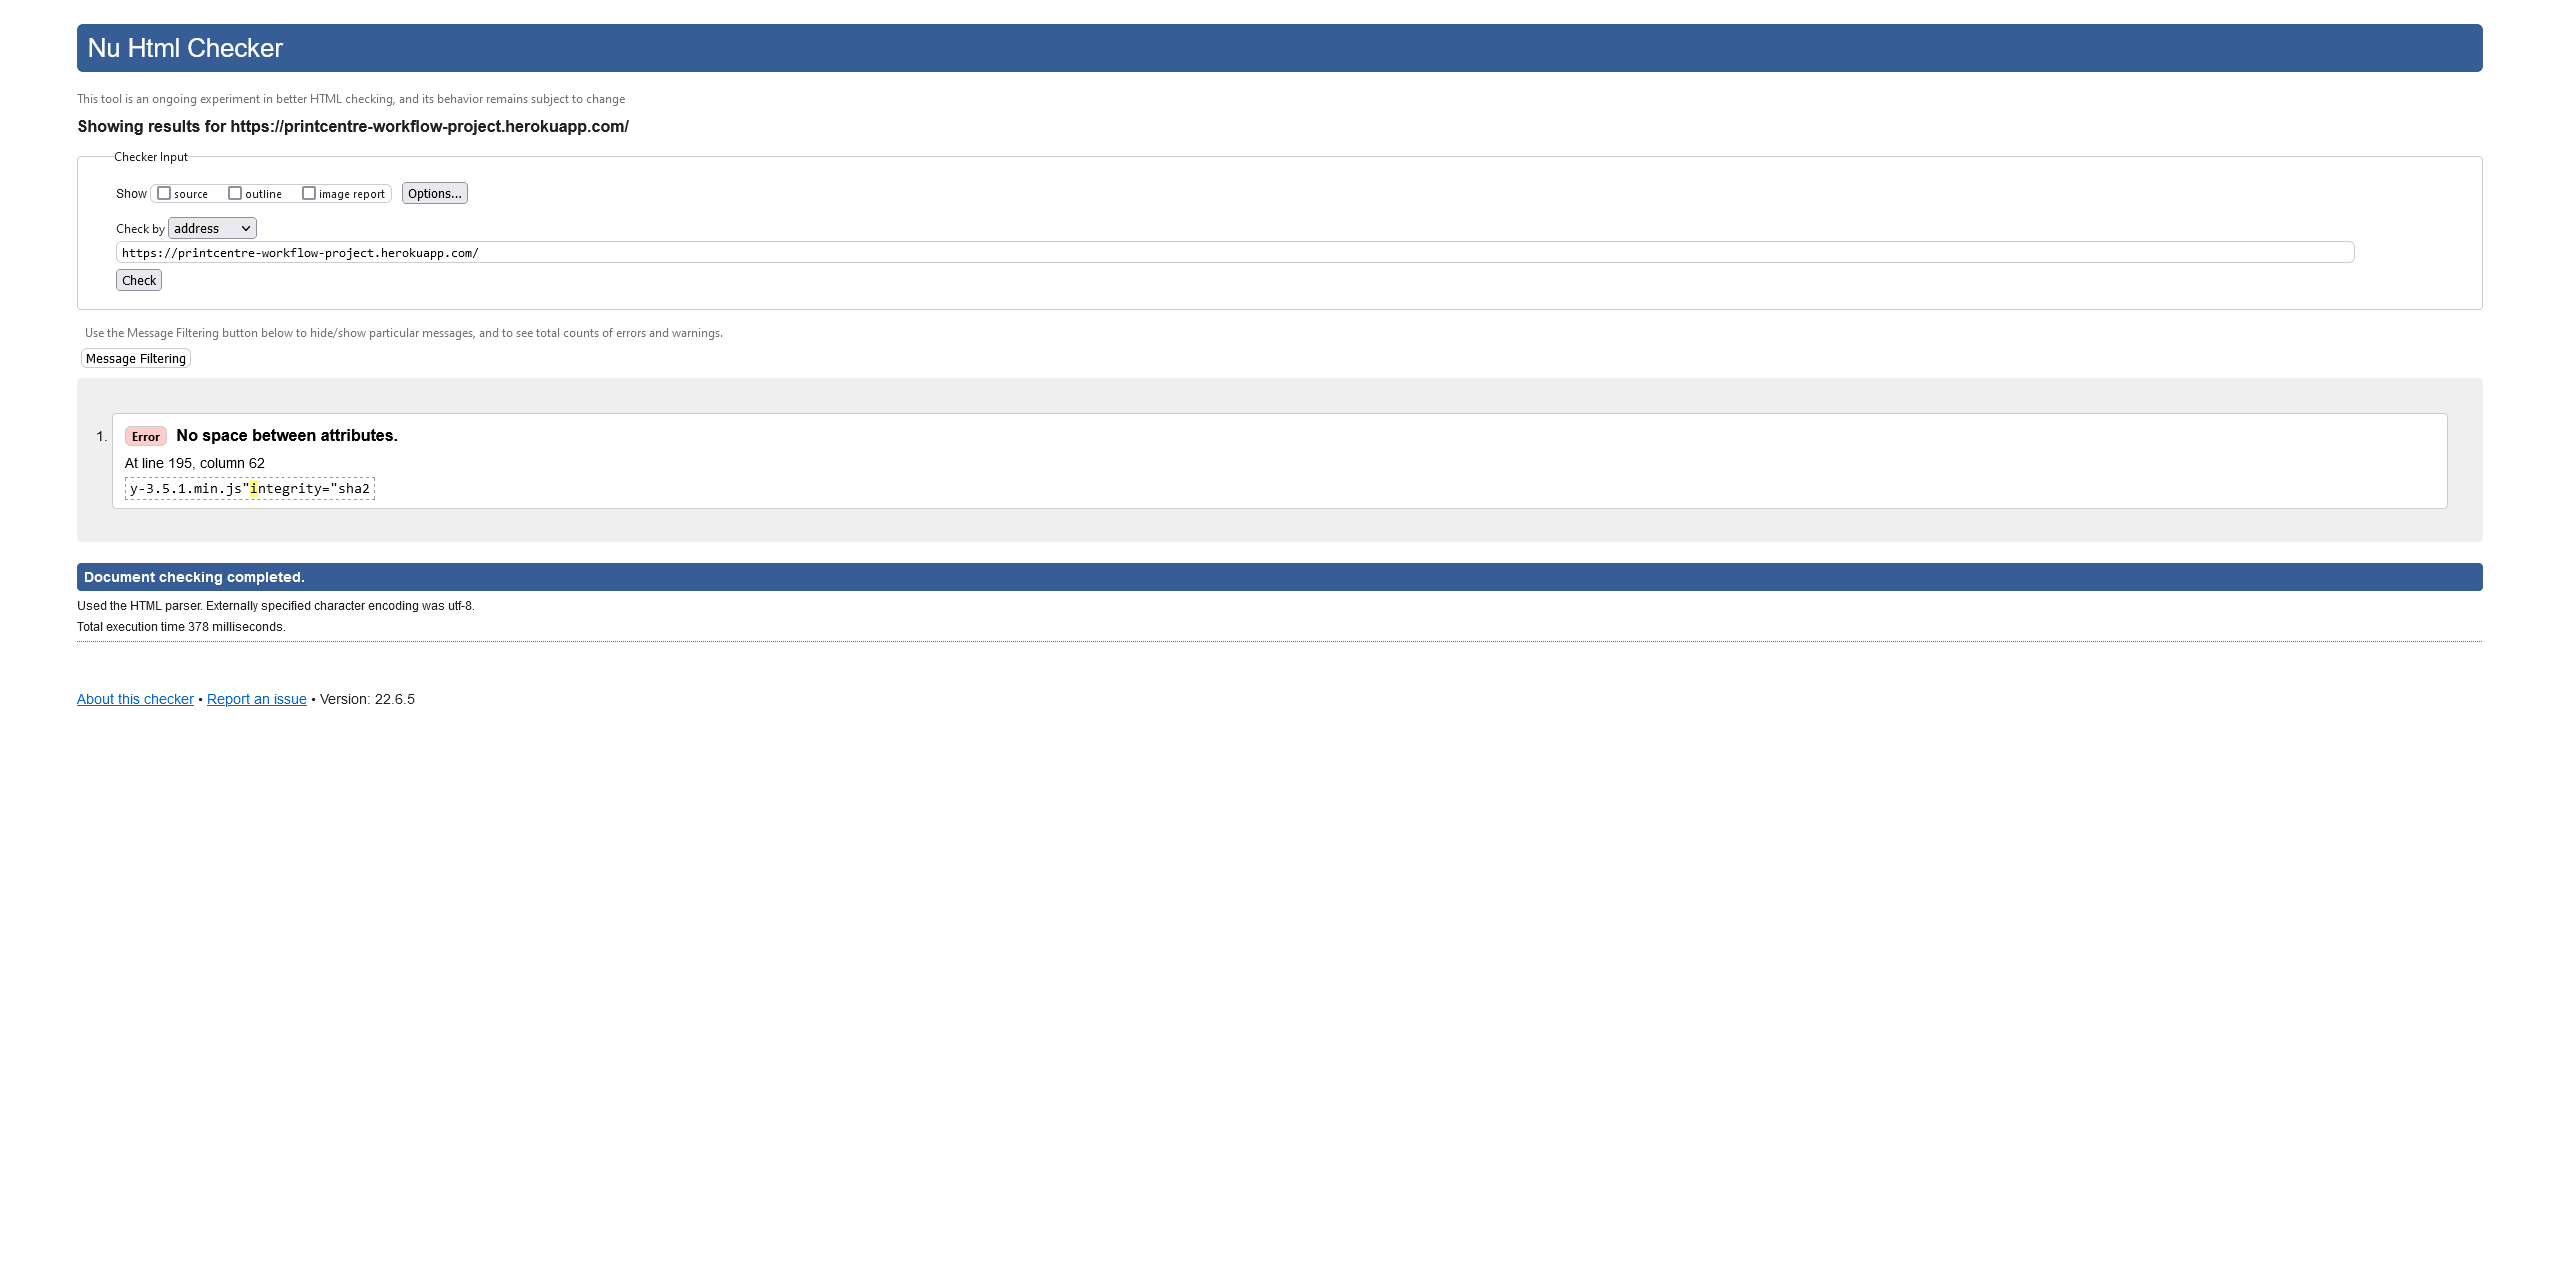
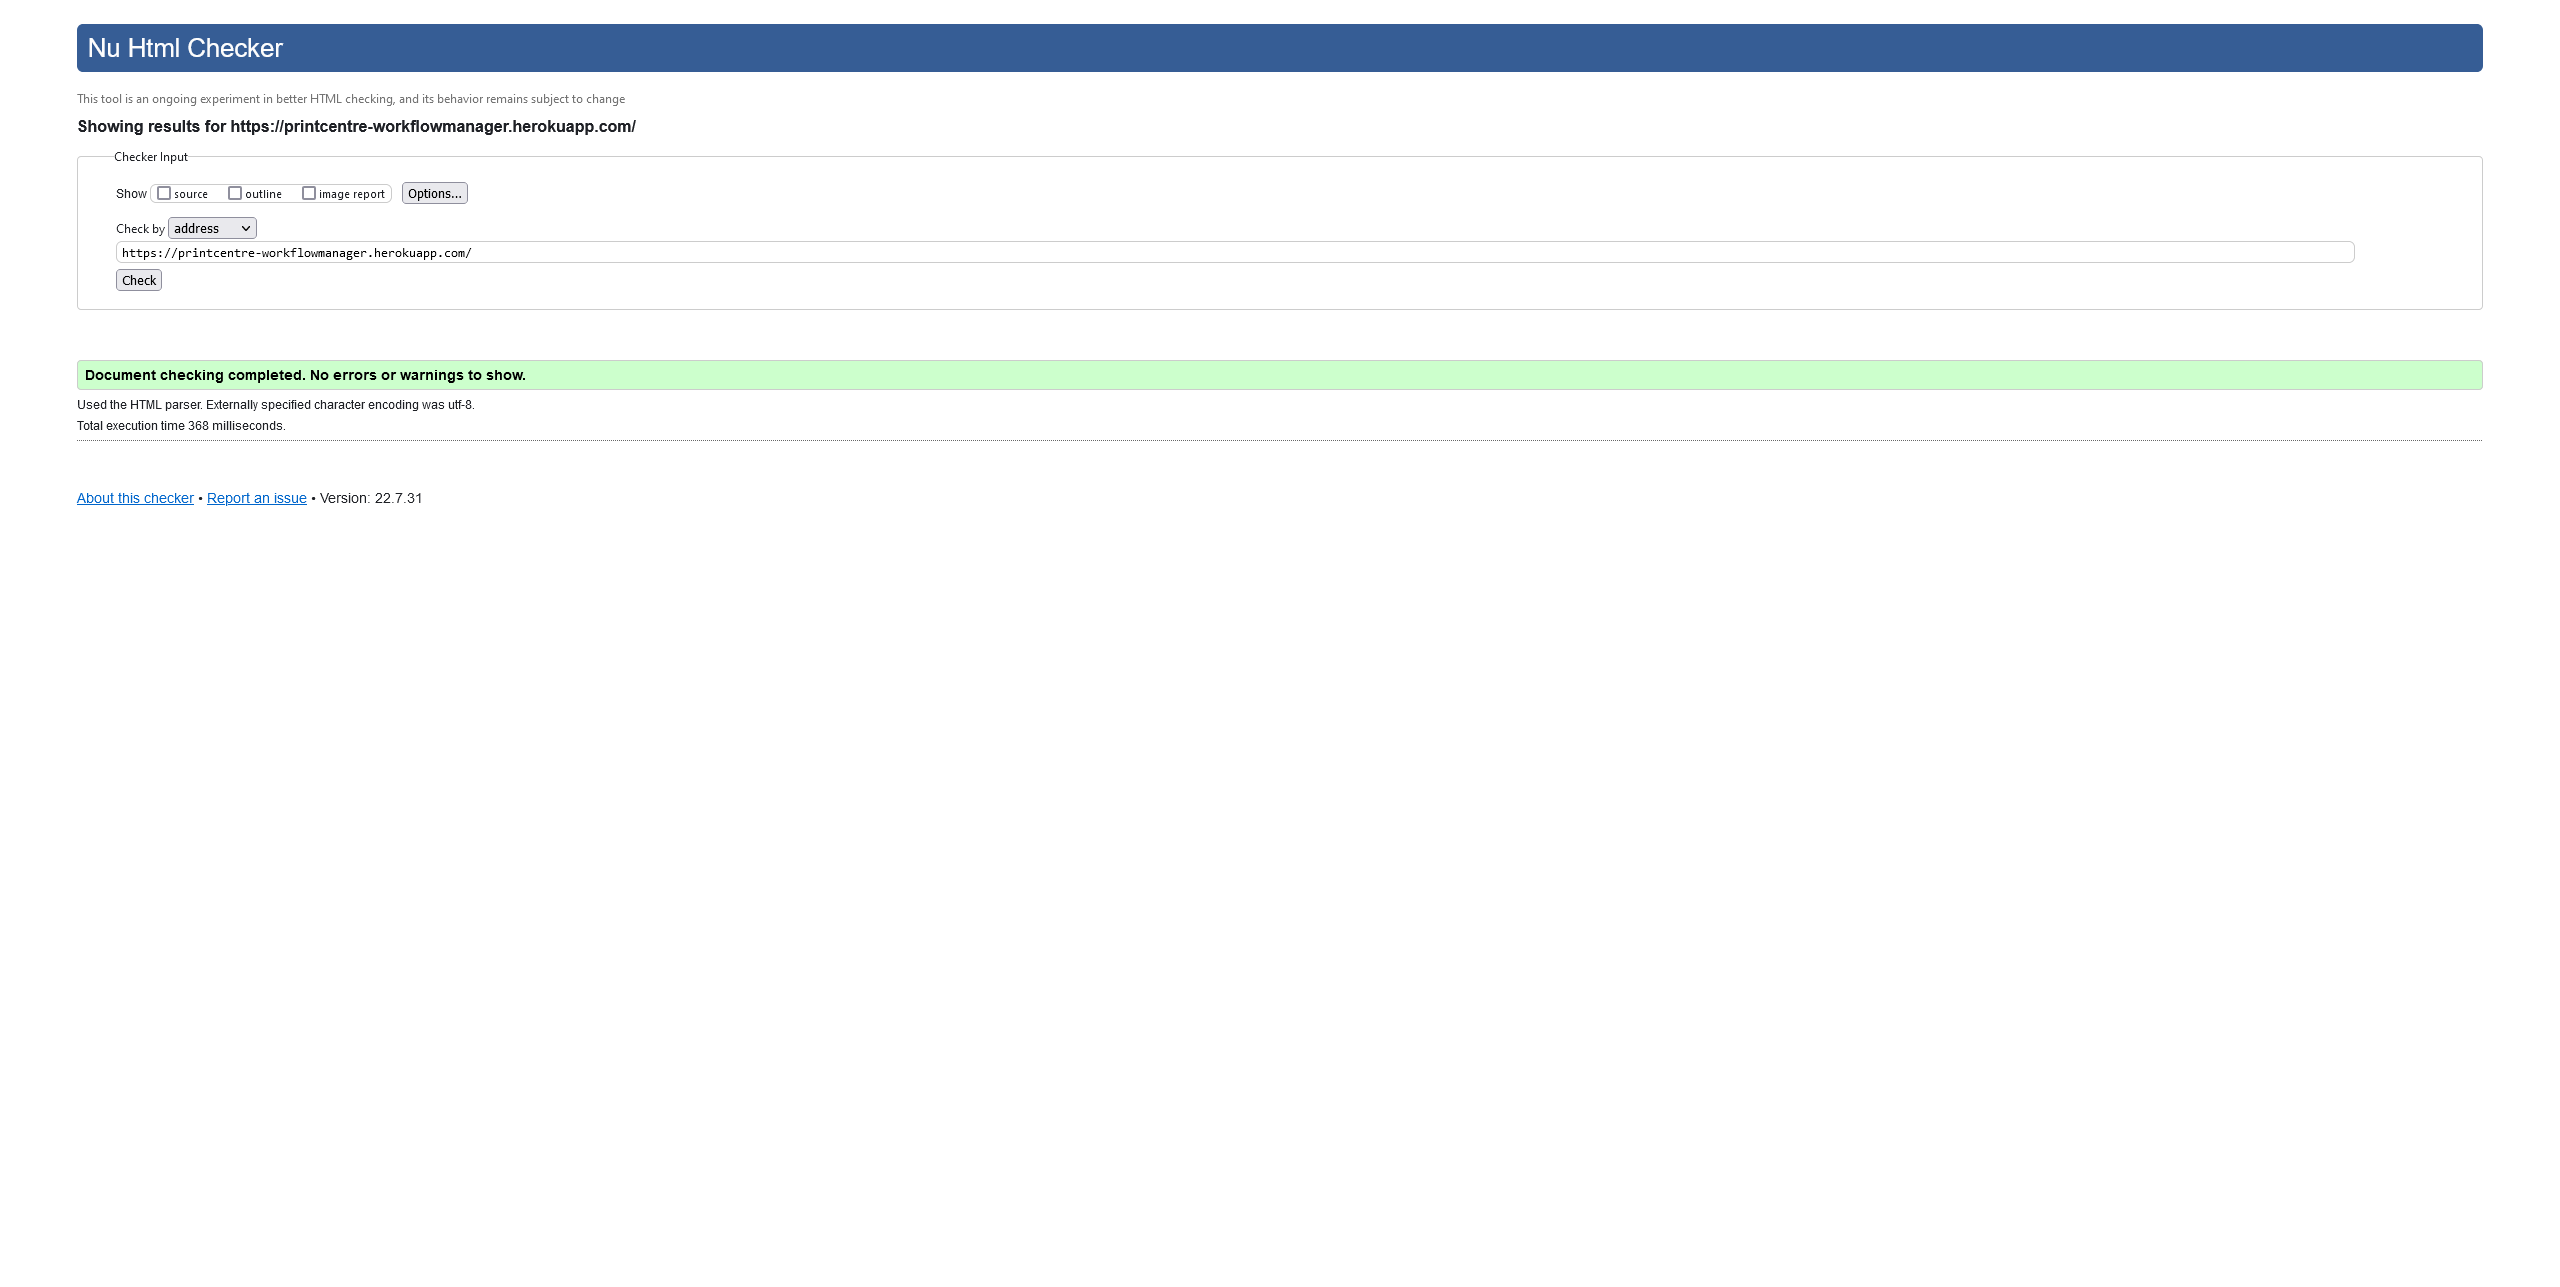
Fixed PEP8 Checker error and html validator error

diff --git a/workflowmanager/static/css/style.css b/workflowmanager/static/css/style.css
@@ -77,3 +77,7 @@ span {
     position: relative;
     top: 6px
 }
+
+body {
+    letter-spacing: 0px;
+}

diff --git a/workflowmanager/routes.py b/workflowmanager/routes.py
@@ -4,6 +4,7 @@ from bson.objectid import ObjectId
 from werkzeug.security import generate_password_hash, check_password_hash
 from workflowmanager import app, mongo
 
+
 @app.route("/")
 @app.route("/get_tasks")
 def get_tasks():
@@ -35,7 +36,7 @@ def add_task():
         flash("Task Successfully Added", category='success')
         return redirect(url_for("get_tasks"))
     customers = mongo.db.customers.find().sort("company_name", 1)
-    return render_template("add_task.html", customers=customers) 
+    return render_template("add_task.html", customers=customers)
 
 
 @app.route("/edit_task/<task_id>", methods=["GET", "POST"])
@@ -61,7 +62,7 @@ def edit_task(task_id):
         flash("Task Successfully Updated", category='success')
         return redirect(url_for("get_tasks"))
     task = mongo.db.tasks.find_one({"_id": ObjectId(task_id)})
-    return render_template("edit_task.html", task=task) 
+    return render_template("edit_task.html", task=task)
 
 
 @app.route("/delete_task/<task_id>")
@@ -109,12 +110,12 @@ def login():
         if existing_user:
             # ensure hashed password matches user input
             if check_password_hash(
-                existing_user["password"], request.form.get("password")):
-                    session["user"] = request.form.get("username").lower()
-                    flash("Welcome, {}".format(
-                        request.form.get("username")))
-                    return redirect(url_for(
-                        "profile", username=session["user"]))
+                    existing_user["password"], request.form.get("password")):
+                        session["user"] = request.form.get("username").lower()
+                        flash("Welcome, {}".format(
+                            request.form.get("username")))
+                        return redirect(url_for(
+                            "profile", username=session["user"]))
             else:
                 # invalid password match
                 flash("Incorrect Username and/or Password", category='error')

diff --git a/README.md b/README.md
@@ -176,7 +176,7 @@ Using the CRUD's four basic functions (create, read, update and delete), here ar
 The JSHint Lighthouse, W3C Markup Validator and W3C CSS Validator Services were used to validate the project to ensure there were no errors in the project.
 
 -   JSHint Found 9 functions with same 2 warnings regarding browser extension. [link](images/JSHint.png)
--   HTML Validator found 1 error from Materialize jQuery preset. [link](images/html-checker.png) 
+-   HTML Validator. [link](images/html-checker.png) 
 -   CSS Validator found 1 error from Materialize css preset. [link](images/css-checker.png) 
 -   Python PEP8 online found 2 error regarding expected lines
 
